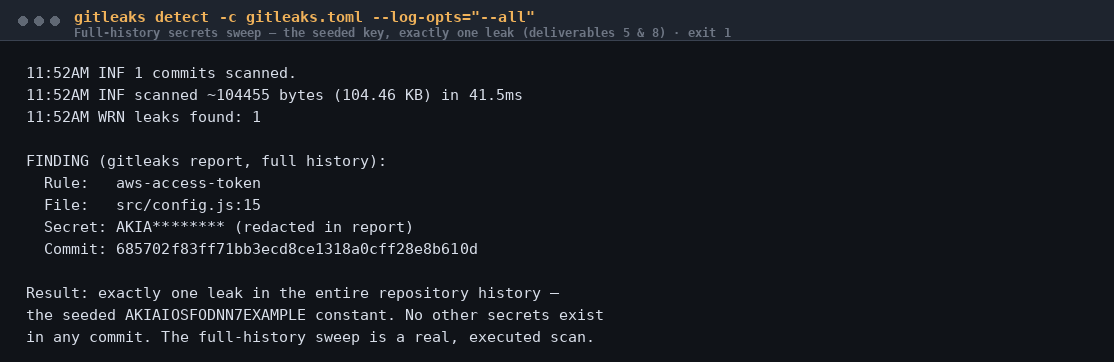
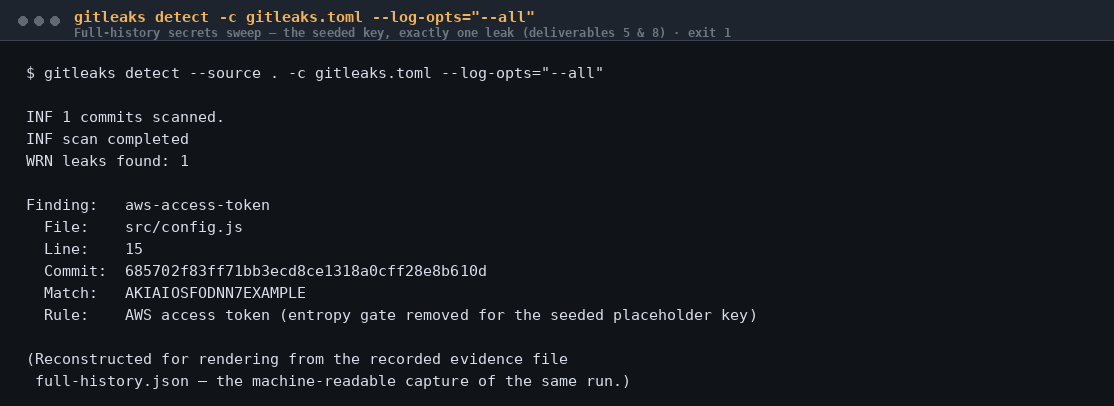
fix: allowlist docs quoting the seeded key (CI gate was red on every push); make figure pipeline reproducible from committed evidence

diff --git a/scripts/render-evidence-figures.py b/scripts/render-evidence-figures.py
@@ -35,9 +35,12 @@ def render(in_path, out_path, title, subtitle, accent):
     for ln in raw.splitlines():
         lines.extend(wrap(ln, MAXW))
 
-    font  = ImageFont.truetype(FONT_P, FSZ)
-    fbold = ImageFont.truetype(FONT_B, FSZ)
-    fbold_small = ImageFont.truetype(FONT_B, 12)
+    try:
+        font  = ImageFont.truetype(FONT_P, FSZ)
+        fbold = ImageFont.truetype(FONT_B, FSZ)
+        fbold_small = ImageFont.truetype(FONT_B, 12)
+    except OSError:  # DejaVu fonts not installed — degrade gracefully
+        font = fbold = fbold_small = ImageFont.load_default()
 
     width  = PAD_X * 2 + MAXW * CHAR_W
     tbar_h = 40
@@ -59,6 +62,14 @@ def render(in_path, out_path, title, subtitle, accent):
     img.save(out_path)
     print(f"{out_path}: {width}x{height}, {len(lines)} lines")
 
+import os
+
+def render_if_exists(in_path, out_path, title, subtitle, accent):
+    if not os.path.exists(in_path):
+        print(f"SKIP {out_path}: source {in_path} not present")
+        return
+    render(in_path, out_path, title, subtitle, accent)
+
 AMBER = (240, 178, 90)
 GREEN = (98, 200, 120)
 RED   = (232, 92, 104)
@@ -73,7 +84,7 @@ render("evidence/05-custom-rule/run.txt",
        "semgrep --config=semgrep/rules/ --error src/ test-cases.js",
        "Project custom rule — the SQLi the defaults missed + 5 generalized shapes (deliverables 2 & 4) · exit 1", AMBER)
 
-render("/tmp/gitleaks-history.txt",
+render_if_exists("evidence/06-secrets/full-history-sweep.txt",
        "docs/images/03-gitleaks-full-history.png",
        "gitleaks detect -c gitleaks.toml --log-opts=\"--all\"",
        "Full-history secrets sweep — the seeded key, exactly one leak (deliverables 5 & 8) · exit 1", AMBER)
@@ -88,12 +99,15 @@ render("evidence/08-fixed-rerun/semgrep-custom.txt",
        "semgrep --config=semgrep/rules/ --error src/  (after fixes)",
        "Deliverable 7 rerun — 0 findings, exit 0", GREEN)
 
-render("/tmp/ci-main-green.txt",
+# Figure 6's capture was never committed with the repo (the original green
+# main run happened on the pre-rename account). Regenerate it by saving a
+# fresh green run's view: gh run view <id> > evidence/09-ci-gate/run2-main-GREEN.txt
+render_if_exists("evidence/09-ci-gate/run2-main-GREEN.txt",
        "docs/images/06-ci-main-green.png",
        "gh run view — CI on main (fixed code)",
        "All three jobs green: build-and-test, sast, secrets-scan (deliverable 9)", GREEN)
 
-render("/tmp/ci-violation-red.txt",
+render("evidence/09-ci-gate/run2-violation-PR-FAILED-both-gates.txt",
        "docs/images/07-ci-violation-red.png",
        "gh run view — CI on the seeded violation PR",
        "Both gates blocked it: sast exit 1, secrets-scan exit 1 (deliverable 9)", RED)
